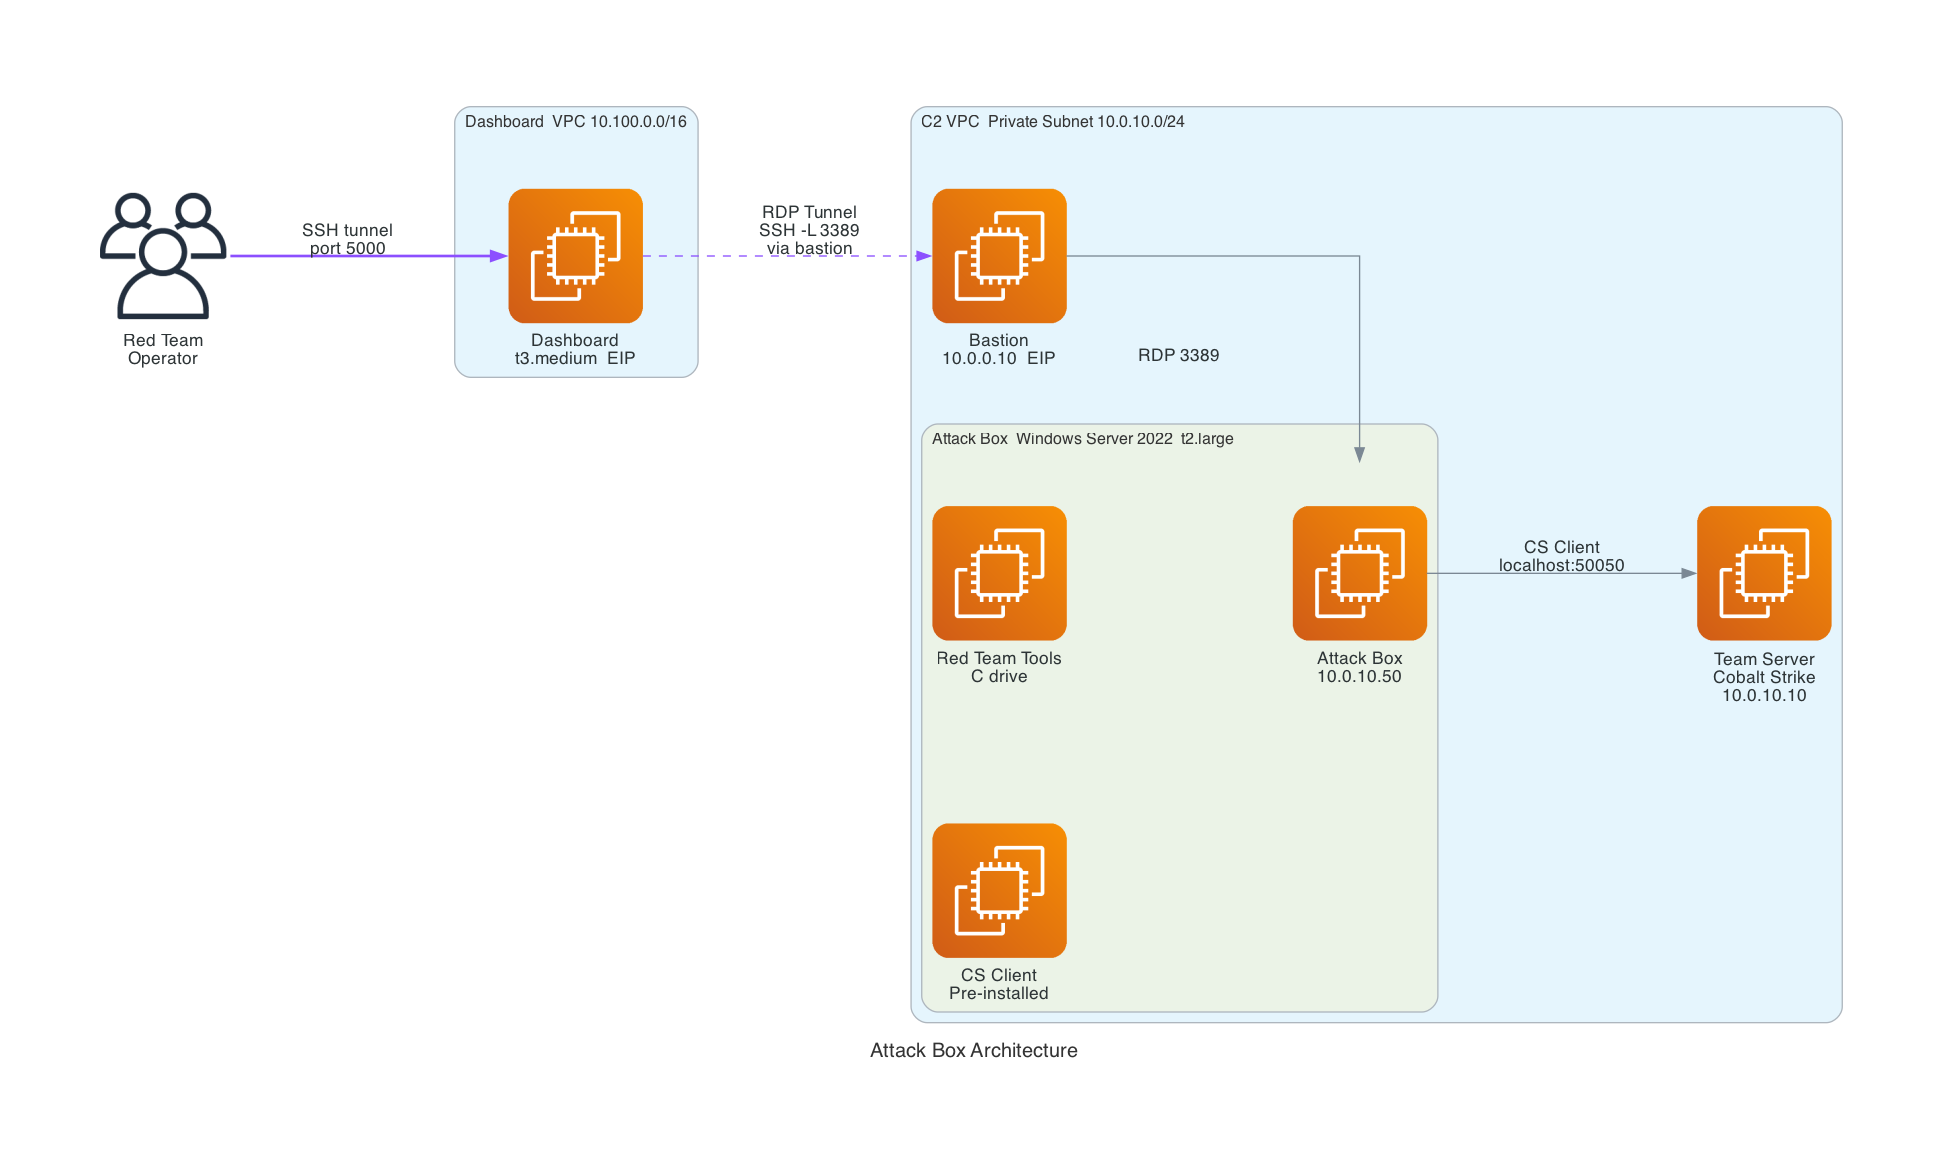
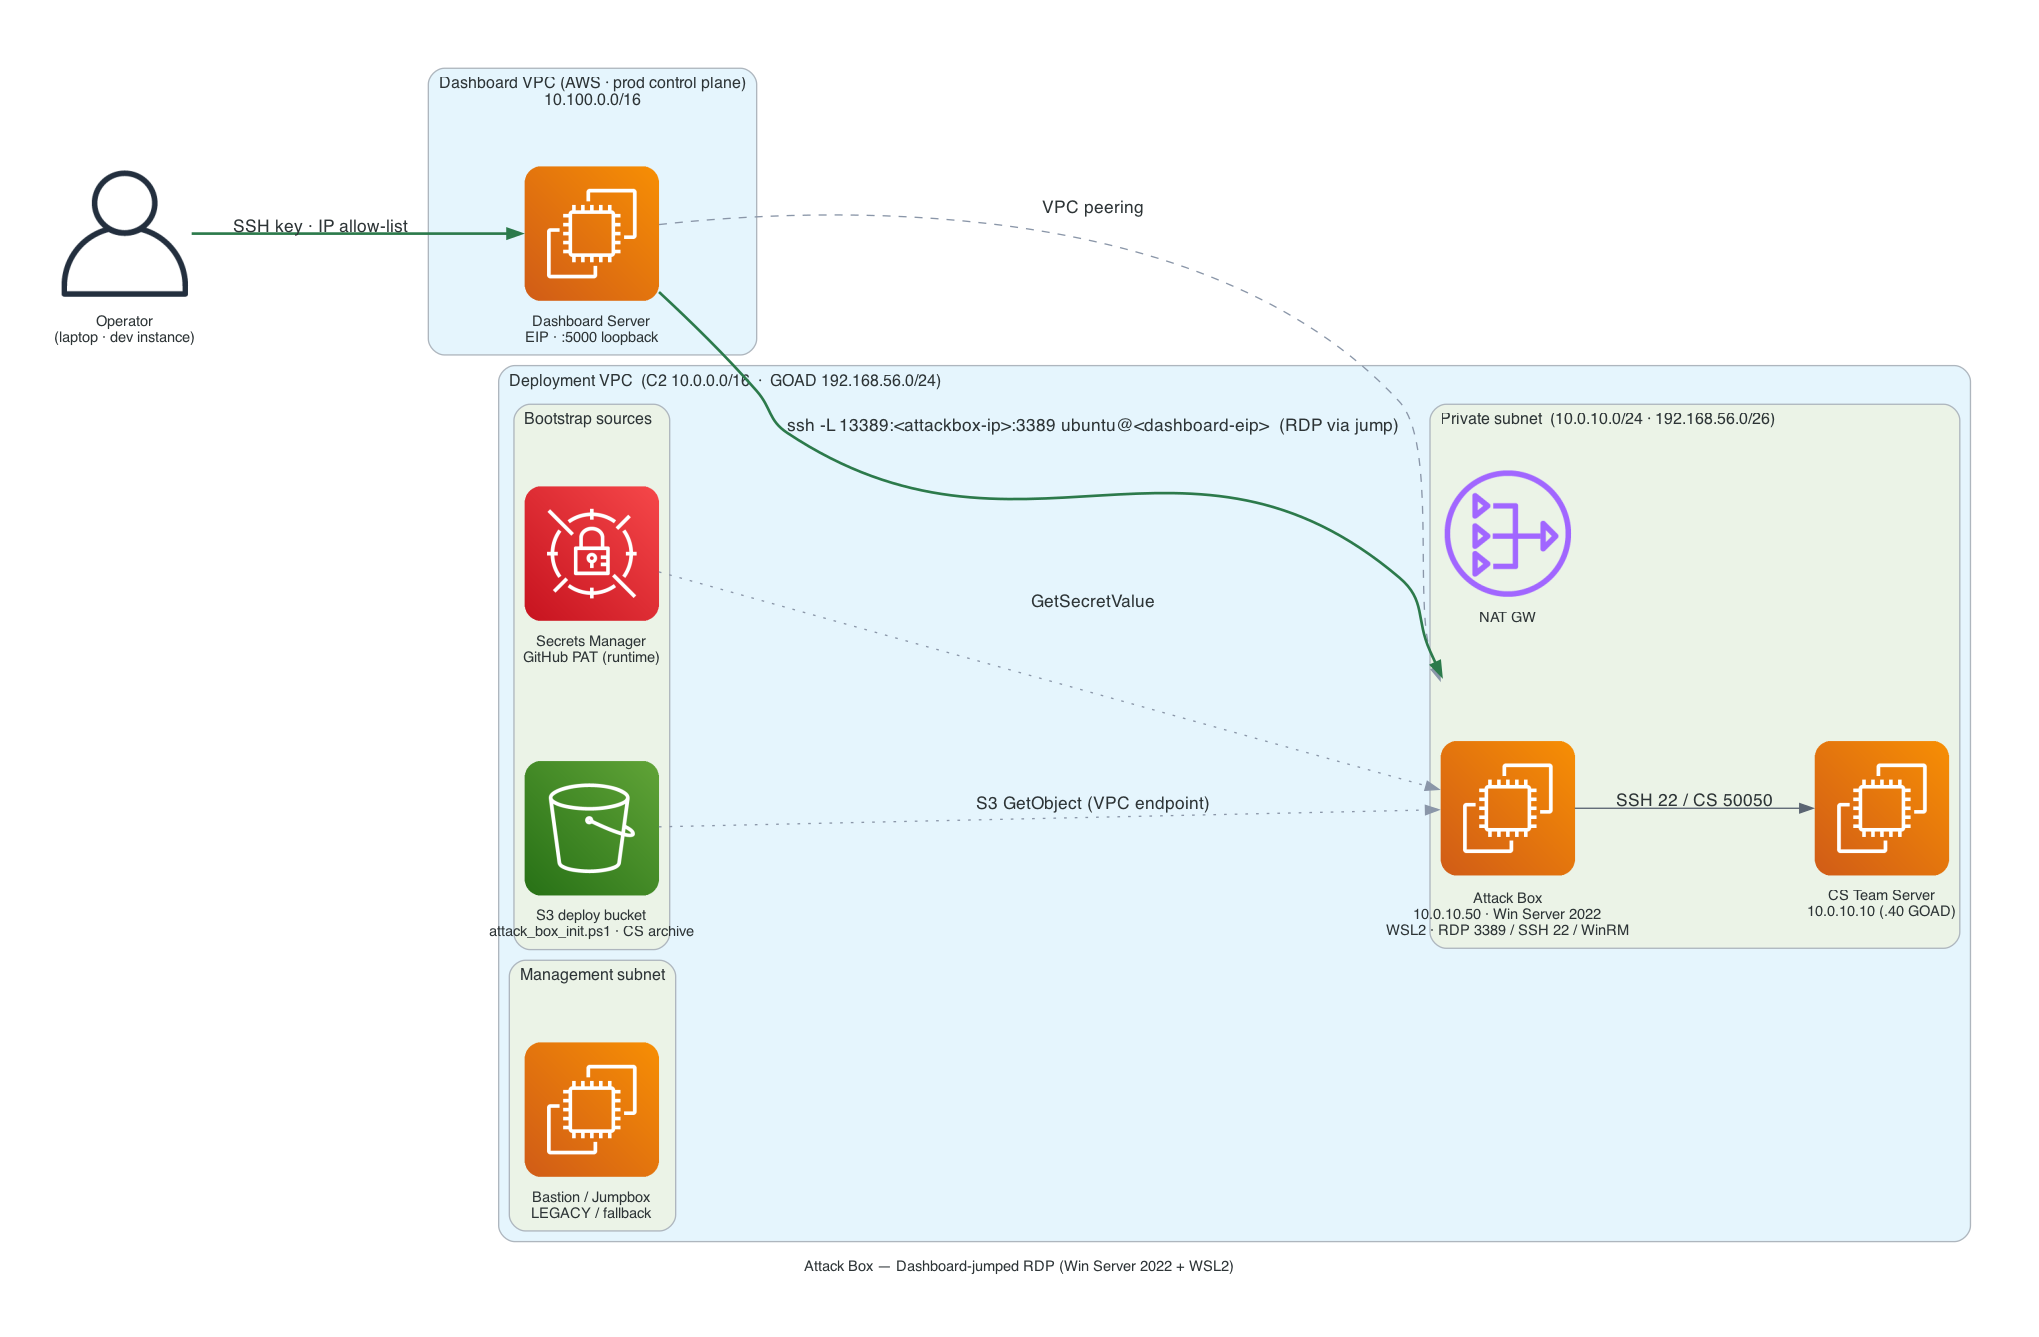
feat(diagrams): regen attackbox + security refs for AWS dashboard hub
attackbox / ssh-key / iam-security / s3-storage / ssl-options redrawn
so the operator's access + key path runs THROUGH the AWS-hosted
Dashboard Server (jump), not a separate per-deployment bastion.
Landscape, AWS icons, scripted via scripts/diagrams/.

diff --git a/scripts/diagrams/diag_iam_security.py b/scripts/diagrams/diag_iam_security.py
@@ -1,0 +1,55 @@
+"""IAM security — least-privilege roles PER VPC + 3-layer confused-deputy
+protection. The AWS-hosted Dashboard Server has its own IAM role and assumes/
+scopes per-VPC when it drives Terraform + reaches deployments.
+
+Roles:
+  * Dashboard Server role — control plane (Terraform, SSM, scoped per VPC).
+  * cs_download_c2  — C2 VPC instances (SourceVpc = C2 VPC).
+  * cs_download_goad — GOAD VPC instances (SourceVpc = GOAD VPC).
+Confused-deputy: trust policy aws:SourceAccount; permission policy
+aws:SourceVpc + aws:SecureTransport. Cross-VPC / cross-account = denied.
+"""
+from diagrams import Cluster, Edge
+from diagrams.aws.compute import EC2
+from diagrams.aws.storage import S3
+from diagrams.aws.security import IAMRole, SecretsManager
+from diagrams.aws.management import SystemsManager
+
+from _common import rt_diagram, operator, dashboard_hub, OPERATOR_EDGE, PEERING_EDGE
+
+with rt_diagram("IAM Security — least-privilege roles per VPC + confused-deputy guard", "iam-security-architecture"):
+    op = operator()
+
+    with dashboard_hub() as dash:
+        op >> OPERATOR_EDGE >> dash
+        dash_role = IAMRole("Dashboard role\nTerraform + SSM\nassumes/scopes per-VPC")
+        dash >> Edge(color="#5a6472") >> dash_role
+
+    ssm = SystemsManager("SSM")
+
+    with Cluster("C2 VPC  10.0.0.0/16"):
+        role_c2 = IAMRole("cs_download_c2\nSourceAccount + SourceVpc=C2\nSecureTransport=true")
+        ec2_c2 = EC2("Team Server · Attack Box\n(C2 instance profile)")
+        role_c2 >> Edge(label="instance profile", color="#5a6472") >> ec2_c2
+
+    with Cluster("GOAD VPC  192.168.56.0/24"):
+        role_goad = IAMRole("cs_download_goad\nSourceAccount + SourceVpc=GOAD\nSecureTransport=true")
+        ec2_goad = EC2("Jumpbox · Team Server · Attack Box\n(GOAD instance profile)")
+        role_goad >> Edge(label="instance profile", color="#5a6472") >> ec2_goad
+
+    with Cluster("Shared resources  (3-layer confused-deputy)"):
+        bucket = S3("S3 deploy bucket\nL3 bucket policy:\ndeny non-VPC / non-account / non-HTTPS")
+        secret = SecretsManager("Secrets Manager\nGitHub PAT (ARN-scoped)")
+
+    # Dashboard role scopes into each VPC; SSM is the management path.
+    dash_role >> Edge(label="assume / scope", color="#8a96a8", style="dashed") >> role_c2
+    dash_role >> Edge(label="assume / scope", color="#8a96a8", style="dashed") >> role_goad
+    dash >> Edge(color="#5a6472") >> ssm
+    ssm >> Edge(color="#5a6472") >> ec2_c2
+    ssm >> Edge(color="#5a6472") >> ec2_goad
+
+    # Per-VPC least-privilege access to shared resources (VPC-conditioned).
+    ec2_c2 >> Edge(label="L2: SourceVpc + HTTPS", color="#2c7a4b") >> bucket
+    ec2_goad >> Edge(label="L2: SourceVpc + HTTPS", color="#2c7a4b") >> bucket
+    ec2_c2 >> Edge(label="GetSecretValue", color="#8a96a8", style="dotted") >> secret
+    ec2_goad >> Edge(color="#8a96a8", style="dotted") >> secret

diff --git a/scripts/diagrams/diag_s3_storage.py b/scripts/diagrams/diag_s3_storage.py
@@ -1,0 +1,53 @@
+"""S3 deployment storage — one per-deployment bucket guarded by 3-layer
+confused-deputy protection, reached only over VPC endpoints. The AWS-hosted
+Dashboard Server reaches the same bucket via ITS OWN VPC endpoint.
+
+3 layers:
+  L1 IAM trust policy   — aws:SourceAccount on sts:AssumeRole.
+  L2 IAM permission     — aws:SourceVpc + aws:SecureTransport on S3 actions.
+  L3 S3 bucket policy   — deny non-authorized VPC / non-account / non-HTTPS.
+Prefixes: archives/ + scripts/ (persist), keys/ + status/ (7-day expiry).
+"""
+from diagrams import Cluster, Edge
+from diagrams.aws.compute import EC2
+from diagrams.aws.storage import S3
+from diagrams.aws.security import IAMRole
+from diagrams.aws.network import VPCElasticNetworkInterface
+
+from _common import rt_diagram, operator, dashboard_hub, OPERATOR_EDGE
+
+with rt_diagram("S3 Deployment Storage — 3-layer confused-deputy + VPC endpoints", "s3-storage-security-architecture"):
+    op = operator()
+
+    with dashboard_hub() as dash:
+        op >> OPERATOR_EDGE >> dash
+        dash_vpce = VPCElasticNetworkInterface("Dashboard VPC endpoint\n(S3 gateway)")
+        dash >> Edge(color="#5a6472") >> dash_vpce
+
+    with Cluster("C2 VPC  10.0.0.0/16"):
+        role_c2 = IAMRole("cs_download_c2\nL1 SourceAccount · L2 SourceVpc=C2")
+        ec2_c2 = EC2("C2 instances")
+        vpce_c2 = VPCElasticNetworkInterface("VPC endpoint (S3)")
+        role_c2 >> Edge(color="#5a6472") >> ec2_c2
+        ec2_c2 >> Edge(color="#5a6472") >> vpce_c2
+
+    with Cluster("GOAD VPC  192.168.56.0/24"):
+        role_goad = IAMRole("cs_download_goad\nL1 SourceAccount · L2 SourceVpc=GOAD")
+        ec2_goad = EC2("GOAD instances")
+        vpce_goad = VPCElasticNetworkInterface("VPC endpoint (S3)")
+        role_goad >> Edge(color="#5a6472") >> ec2_goad
+        ec2_goad >> Edge(color="#5a6472") >> vpce_goad
+
+    with Cluster("S3 deployment bucket  {project}-deploy-files-{hex}"):
+        bucket = S3("L3 bucket policy: deny non-VPC / non-account / non-HTTPS\n"
+                    "SSE-S3 · versioned · public access blocked")
+        with Cluster("Prefixes"):
+            persist = S3("archives/ · scripts/\n(no expiry)")
+            ephem = S3("keys/ · status/\n(7-day expiry)")
+        bucket >> Edge(style="dotted", color="#8a96a8") >> persist
+        bucket >> Edge(style="dotted", color="#8a96a8") >> ephem
+
+    # Every path into the bucket goes through a VPC endpoint (HTTPS-only).
+    dash_vpce >> Edge(label="GetObject (HTTPS)", color="#2c7a4b") >> bucket
+    vpce_c2 >> Edge(label="L2/L3: SourceVpc + HTTPS", color="#2c7a4b") >> bucket
+    vpce_goad >> Edge(label="L2/L3: SourceVpc + HTTPS", color="#2c7a4b") >> bucket

diff --git a/scripts/diagrams/diag_ssh_key.py b/scripts/diagrams/diag_ssh_key.py
@@ -1,0 +1,50 @@
+"""SSH key distribution — the operator's key only authorizes to the AWS-hosted
+Dashboard Server (IP allow-list). The dashboard server then holds/uses the
+INTERNAL keys to reach every deployment instance (Ansible + SSM), so the
+operator's key never lands on deployment hosts.
+
+Key categories:
+  A. Operator external key  -> Dashboard Server (IP allow-list) ONLY.
+  B. Windows RSA key (Terraform-generated) -> decrypts attack box/bastion pw.
+  C. Host-generated internal ed25519 keys, exchanged via S3 (GOAD bootstrap).
+SSM is the PREFERRED path from the dashboard to instances (no SSH key hop).
+"""
+from diagrams import Cluster, Edge
+from diagrams.aws.compute import EC2
+from diagrams.aws.storage import S3
+from diagrams.aws.management import SystemsManager
+from diagrams.onprem.client import User
+
+from _common import rt_diagram, operator, dashboard_hub, OPERATOR_EDGE, PEERING_EDGE
+
+with rt_diagram("SSH Key Management — operator key stops at the Dashboard jump", "ssh-key-architecture"):
+    op = operator("Operator laptop\nKey A: ed25519 private\n(never leaves laptop)")
+
+    with dashboard_hub() as dash:
+        # Category A: operator key authorizes ONLY to the dashboard server.
+        op >> Edge(label="Key A public · IP allow-list (only authorized host)",
+                   color="#2c7a4b", style="bold") >> dash
+
+    # SSM is the preferred control path out of the dashboard.
+    ssm = SystemsManager("SSM\n(preferred · no SSH key hop)")
+
+    # S3 brokers the host-generated internal public keys (Category C).
+    s3 = S3("S3 keys/{id}/*.pub\ninternal key exchange (7-day expiry)")
+
+    with Cluster("Deployment VPCs  (C2 · GOAD)"):
+        with Cluster("Linux instances"):
+            jb = EC2("Jumpbox / Team Server / Redirector")
+        with Cluster("Windows instances"):
+            ab = EC2("Attack Box / Bastion\nKey B: RSA 4096 (pw decrypt)")
+
+    # Dashboard holds the INTERNAL keys + reaches instances over peering / SSM.
+    dash >> Edge(label="Key C internal (Ansible over VPC peering)",
+                 color="#8a96a8", style="dashed") >> jb
+    dash >> Edge(color="#8a96a8", style="dashed") >> ab
+    dash >> Edge(label="run commands", color="#5a6472") >> ssm
+    ssm >> Edge(color="#5a6472") >> jb
+    ssm >> Edge(color="#5a6472") >> ab
+
+    # Category C: ed25519 internal keys generated on hosts, swapped via S3.
+    jb >> Edge(label="ed25519 .pub (PutObject)", color="#8a96a8", style="dotted") >> s3
+    s3 >> Edge(label="peer .pub (GetObject)", color="#8a96a8", style="dotted") >> ab

diff --git a/scripts/diagrams/diag_attackbox.py b/scripts/diagrams/diag_attackbox.py
@@ -1,0 +1,50 @@
+"""attack box — Windows Server 2022 + WSL2 red team workstation, reached
+THROUGH the AWS-hosted Dashboard Server (jump), not a per-deployment bastion.
+
+Access path: operator -> Dashboard Server (SSH key + IP allow-list) -> VPC
+peering into the deployment -> RDP tunnel to the attack box in the private
+subnet. The one-liner
+    ssh -L 13389:<attackbox-ip>:3389 ubuntu@<dashboard-eip>
+forwards RDP 3389 over the dashboard jump; the operator then mstsc to
+localhost:13389. The per-deployment bastion remains LEGACY/fallback only.
+S3 + Secrets Manager feed the bootstrap (init script, CS archive, GitHub PAT).
+"""
+from diagrams import Cluster, Edge
+from diagrams.aws.compute import EC2
+from diagrams.aws.network import NATGateway
+from diagrams.aws.storage import S3
+from diagrams.aws.security import SecretsManager
+
+from _common import rt_diagram, operator, dashboard_hub, OPERATOR_EDGE, PEERING_EDGE
+
+with rt_diagram("Attack Box — Dashboard-jumped RDP (Win Server 2022 + WSL2)", "attackbox-architecture"):
+    op = operator()
+
+    with dashboard_hub() as dash:
+        op >> OPERATOR_EDGE >> dash
+
+    with Cluster("Deployment VPC  (C2 10.0.0.0/16  ·  GOAD 192.168.56.0/24)"):
+        with Cluster("Management subnet"):
+            bastion = EC2("Bastion / Jumpbox\nLEGACY / fallback")
+        with Cluster("Private subnet  (10.0.10.0/24 · 192.168.56.0/26)"):
+            nat = NATGateway("NAT GW")
+            ab = EC2("Attack Box\n10.0.10.50 · Win Server 2022\nWSL2 · RDP 3389 / SSH 22 / WinRM")
+            ts = EC2("CS Team Server\n10.0.10.10 (.40 GOAD)")
+
+        # Bootstrap supply chain (S3 init script + CS archive, Secrets Manager PAT).
+        with Cluster("Bootstrap sources"):
+            bucket = S3("S3 deploy bucket\nattack_box_init.ps1 · CS archive")
+            secret = SecretsManager("Secrets Manager\nGitHub PAT (runtime)")
+
+        # Dashboard server is the jump into the attack box (RDP over the tunnel).
+        dash >> PEERING_EDGE >> ab
+        dash >> Edge(
+            label="ssh -L 13389:<attackbox-ip>:3389 ubuntu@<dashboard-eip>  (RDP via jump)",
+            color="#2c7a4b", style="bold",
+        ) >> ab
+
+        # Attack box -> team server (direct CS client, no tunnel needed).
+        ab >> Edge(label="SSH 22 / CS 50050", color="#5a6472") >> ts
+        # Bootstrap pulls.
+        bucket >> Edge(label="S3 GetObject (VPC endpoint)", color="#8a96a8", style="dotted") >> ab
+        secret >> Edge(label="GetSecretValue", color="#8a96a8", style="dotted") >> ab

diff --git a/scripts/diagrams/diag_ssl_options.py b/scripts/diagrams/diag_ssl_options.py
@@ -1,0 +1,38 @@
+"""SSL/TLS options comparison — 3 side-by-side clusters, NOT a topology.
+
+  1. Let's Encrypt  — redirector certs, DNS-01 via Route53, auto-renew (default).
+  2. ACM            — public cert for CloudFront domain-fronting (us-east-1,
+                      DNS-validated, no Let's Encrypt needed).
+  3. Self-signed    — immediate fallback, browser warnings, RSA 2048 / 365d.
+
+Landscape with three option columns so the operator can compare at a glance.
+"""
+from diagrams import Cluster, Edge
+from diagrams.aws.compute import EC2
+from diagrams.aws.security import ACM
+from diagrams.aws.network import CloudFront, Route53
+from diagrams.onprem.network import Internet
+
+from _common import rt_diagram
+
+with rt_diagram("SSL / TLS Options — Let's Encrypt vs ACM vs Self-Signed", "ssl-options-comparison"):
+
+    # Option 1: Let's Encrypt (recommended for redirectors).
+    with Cluster("1. Let's Encrypt  (recommended · auto-renew)"):
+        le_ca = Internet("Let's Encrypt CA\nDNS-01 challenge")
+        le_r53 = Route53("Route53\n_acme-challenge TXT")
+        le_redir = EC2("Redirector\ncertbot --dns-route53\nrenew via systemd timer")
+        le_ca >> Edge(label="validate TXT", color="#5a6472") >> le_r53
+        le_r53 >> Edge(label="issue · 90d auto-renew", color="#2c7a4b") >> le_redir
+
+    # Option 2: ACM (for CloudFront domain fronting).
+    with Cluster("2. ACM  (CloudFront domain fronting)"):
+        acm = ACM("ACM cert (us-east-1)\nDNS-validated · auto-managed")
+        cf = CloudFront("CloudFront\nfront domain edge")
+        acm >> Edge(label="attach (no LE needed)", color="#2c7a4b") >> cf
+
+    # Option 3: Self-signed (immediate fallback).
+    with Cluster("3. Self-signed  (fallback · no deps)"):
+        ss = EC2("Redirector\nopenssl RSA 2048 · 365d\nimmediate · browser warnings")
+        ss_note = Internet("No CA / no DNS\n(testing / OPSEC-weak)")
+        ss_note >> Edge(label="self-issued", color="#b4564f", style="dashed") >> ss
